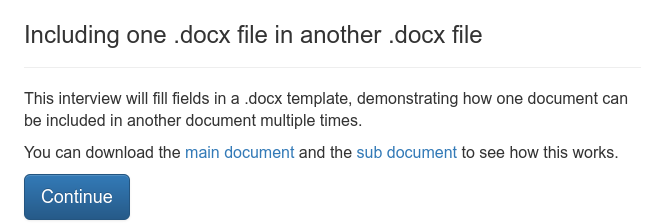
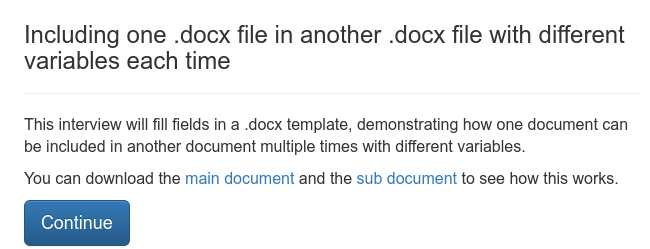
user_logged_in

diff --git a/_docs/functions.md b/_docs/functions.md
@@ -1627,6 +1627,26 @@ code: |
 The `user_logged_in()` function returns `True` if the user is logged
 in, and otherwise returns `False`.
 
+You can use this function to ensure that the user is logged in before
+the user can use your interview:
+
+{% include side-by-side.html demo="user-logged-in" %}
+
+This function uses the [`initial`] modifier in combination with the
+[`url_of()`] function and the [`interview_url()`] function.
+
+The code block should be [`initial`], so that it runs every time a
+user accesses the interview.  If the block is merely [`mandatory`],
+there are some circumstances (albeit rare circumstances) when a user
+who is not logged in could access the interview.
+
+The [`command()`] function redirects the browser to the given `url`.
+You could set the `url` to the result of `url_of('login')`, but then
+when the user logs in, the user will not be redirected back to the
+same interview again.  Thus the `next` parameter is set to a URL for
+the interview.  The URL returned by [`interview_url()`] takes the user
+back to the original interview session.
+
 ## <a name="user_privileges"></a>user_privileges()
 
 The `user_privileges()` function returns the user's privileges as a
@@ -4555,9 +4575,13 @@ The `include_docx_template()` function can be called from within a
 
 {% include demo-side-by-side.html demo="subdocument" %}
 
-The file `main_document.docx` looks like this:
+The file [`main_document.docx`] looks like this:
 
 ![include_docx_template]({{ site.baseurl }}/img/include_docx_template.png)
+
+The file [`sub_document.docx`] looks like this:
+
+![include_docx_template_sub]({{ site.baseurl }}/img/include_docx_template_sub.png)
 
 Note that it is important to use the `p` form of [Jinja2] markup, or
 else the contents of the included document will not be visible.  The
@@ -4570,6 +4594,63 @@ that exists in the templates folder of the current package.  You can
 also refer to templates in other packages using a full package
 filename reference, such as
 `docassemble.demo:data/templates/sub_document.docx`.
+
+The `include_docx_template()` function also accepts optional keyword
+parameters.  These values become variables that you can use in
+[Jinja2] inside the .docx file you are including.  This can be useful
+if you have a "sub-document" that you want to include multiple times,
+but you want to use different variable values each time you include
+the "sub-document."
+
+Here is an example:
+
+{% include demo-side-by-side.html demo="subdoc-params" %}
+
+The file [`main_doc_params.docx`] looks like this:
+
+![include_docx_template_param]({{ site.baseurl }}/img/include_docx_template_param.png)
+
+The file [`sub_doc_params.docx`] looks like this:
+
+![include_docx_template_param_sub]({{ site.baseurl }}/img/include_docx_template_param_sub.png)
+
+In this example, the variables `grantor`, `grantee`, and `stuff` are
+set by the keyword parameters of the `include_docx_template()`
+function.  Note that in your sub-document you can still refer to
+ordinary interview variables in addition to variables created by
+keyword parameters; in this example, the sub-document references the
+variable `planet`, which is set by the interview.
+
+The effect of including keyword parameters is to insert [Jinja2] `set`
+commands at the start of the included document.  For example, the
+first call to `include_docx_template()` might result in the following:
+
+{% highlight text %}
+{% raw %}{%p set grantor = father %}{% endraw %}
+{% raw %}{%p set grantee = mother %}{% endraw %}
+{% raw %}{%p set stuff = 'toadstools' %}{% endraw %}
+{% endhighlight %}
+
+Nobody ever actually sees these `set` statements; they are inserted
+and evaluated behind the scenes.
+
+Note that if the values of any of your keyword arguments are objects
+other than [`DAObject`]s, they will be converted to their [`repr()`]
+representation _before being included_.  This means that there may be
+some objects that you cannot pass through to your sub-documents.
+
+When a `docx template file` document contains a call to
+`include_docx_template()`, the document is assembled in multiple
+"passes."  On the first pass, all of the [Jinja2] is evaluated.  The
+effect of `include_docx_template()` is to insert any `set` statements
+based on keyword parameters, along the verbatim contents of the file.
+Then, on the second pass, any remaining [Jinja2] code is evaluated;
+this would be any [Jinja2] code contained in sub-documents, as well as
+the `set` statements included by `include_docx_template()`.  If any of
+the sub-documents contain calls to `include_docx_template()`, a third
+pass will be done, and so on, until the document is fully assembled.
+(The number of passes is limited to 10 in order to protect against
+accidentally creating an infinite loop of document inclusion.)
 
 ## <a name="raw"></a>raw()
 
@@ -4732,20 +4813,26 @@ modules:
 
 # <a name="google sheets example"></a>Example module: using Google Sheets
 
-This section explains an example of what you might do with a module:
-integrate with [Google Sheets].
+This section explains an example of something you might do with a
+module: integrate with [Google Sheets].
 
 In order for your site to communicate with [Google Sheets], you will
 need to create an account on the [Google Developers Console] and
 create an "app."  Within this app, you will need to create a "service
 account."  (More information is available on the internet about what a
 "service account" is and how you create one.)  When you create the
-service account, you will be provided with "credential"download a [JSON] (not p12) credential file for the
-service account.  Note the e-mail address of the service account.
+service account, you will be provided with "credentials."  Download
+the [JSON] (not p12) credential file for the service account.  Also
+make a note of the e-mail address of the service account.
 
 Go to [Google Sheets], pick a spreadsheet that you want to use, and
 share it with the e-mail address of the service account, just like you
-were sharing it with a real person.
+were sharing it with a real person.  (When you share the spreadsheet
+with this e-mail address, you will get an e-mail notification from
+Google about an undeliverable e-mail.  This is because Google will try
+to e-mail the service account, but the service account does not
+actually have an e-mail account.  To avoid getting this e-mail, click
+the "Advanced" link on the sharing screen and uncheck "Notify people.")
 
 Go to the [Configuration] and create a new configuration directive
 called, e.g., `google docs credentials`.  Set it to the contents of
@@ -4791,10 +4878,6 @@ You might need to change the reference to `'google docs credentials'`
 to something else if you used a different name for the [JSON] crededials
 in your [Configuration].
 
-Go to Package Management and make sure that the `oauth2client`
-and `gspread` packages are installed.  If they are not installed,
-install them from PyPI.
-
 Go to the [Playground] and create an interview that references the
 `google_sheets` module and the `read_sheet` function.
 
@@ -4811,14 +4894,65 @@ subquestion: |
   % endfor
 {% endhighlight %}
 
-In this example, a Google Sheet called "Country Data" has been shared
+In this example, a [Google Sheet] called "Country Data" has been shared
 with the "service account" that owns the credentials in `google docs
 credentials`.  The first worksheet in the spreadsheet (index 0)
 contains a table with headings for `name` and `longitude`, among other
 columns.  The `read_sheet` function returns a list of dictionaries
 representing the contents of the table.
 
-For more information, see the documentation for the [gspread] module.
+For more information on using [Google Sheets] from [Python], see the
+documentation for the [gspread] module.
+
+# <a name="google sheets example two"></a>Example module: storing data in a Google Sheet
+
+The following example interview extends the system developed in the
+previous section by adding functionality for writing data to the
+worksheet.  This interview asks the interviewee some questions
+and then stores the results in a [Google Sheet], much like [Google
+Forms] would.
+
+{% include demo-side-by-side.html demo="google-sheet" %}
+
+This interview uses a [Google Sheet] called [Fruits and veggies] (you
+can view it at that link), which has been shared with the "service
+account" referenced in the `google docs credentials` directive of the
+[Configuration] on the demo.docassemble.org server.
+
+You can [try out this interview] and then look at the [Fruits and
+veggies] spreadsheet to see your answers along with the answers of
+other people who have tested the interview.
+
+There is a single [`mandatory`] block in this interview: a [`code`]
+block that first requires a definition of
+`data_stored_in_google_sheet`, and then seeks a definition of
+`final_screen_shown`.
+
+The variable `data_stored_in_google_sheet` is defined by a [`code`]
+block that calls `append_to_sheet()`, which is a function defined in
+the [`google_sheets` module].  This module is in the same [Python]
+package as the interview (`docassemble.demo`).  (The [`google_sheets`
+module] is based on the [Python] module described in the previous
+section.)
+
+The `append_to_sheet()` function is very similar to the `read_sheet()`
+function described in the previous section.
+
+{% highlight python %}
+def append_to_sheet(sheet_name, vals, worksheet_index=0):
+    creds = ServiceAccountCredentials.from_json_keyfile_dict(credential_info, scope)
+    client = gspread.authorize(creds)
+    sheet = client.open(sheet_name).get_worksheet(worksheet_index)
+    sheet.append_row(vals)
+{% endhighlight %}
+
+There is a handy method in [gspread] called `append_row()`, which adds
+a row to the end of a spreadsheet.  If you use a method like this
+yourself, please note in [Google Sheets], spreadsheets by default have
+several hundred rows, so if you append data to them, you might not see
+the data that you have appended unless you scroll all the way down.
+It is recommended that you delete all of these extraneous rows before
+you use [gspread]'s `append_row()` method to write to a spreadsheet.
 
 # <a name="javascript"></a>Javascript functions
 
@@ -5115,6 +5249,7 @@ $(document).on('daPageLoad', function(){
 [`response()`]: #response
 [`command()`]: #command
 [`message()`]: #message
+[`url_of()`]: #url_of
 [Python Imaging Library]: http://www.pythonware.com/products/pil/
 [URL arguments]: {{ site.baseurl }}/docs/special.html#url_args
 [Celery]: http://www.celeryproject.org/
@@ -5315,3 +5450,13 @@ $(document).on('daPageLoad', function(){
 [gspread]: https://gspread.readthedocs.io/en/latest/
 [Google Developers Console]: https://console.developers.google.com/
 [Google Sheets]: https://sheets.google.com
+[Google Forms]: https://docs.google.com/forms
+[Google Sheet]: https://sheets.google.com
+[Fruits and veggies]: https://docs.google.com/spreadsheets/d/1Lrm75Rq-C4wrftZnmwLJaKh_VPP3xe1iYfDP95e-UMs/edit?usp=sharing
+[`google_sheets` module]: {{ site.github.repository_url }}/blob/master/docassemble_demo/docassemble/demo/google_sheets.py
+[try out this interview]: https://demo.docassemble.org/?i=docassemble.demo:data/questions/google-sheet.yml
+[`main_document.docx`]: https://github.com/jhpyle/docassemble/blob/master/docassemble_demo/docassemble/demo/data/templates/main_document.docx
+[`sub_document.docx`]: https://github.com/jhpyle/docassemble/blob/master/docassemble_demo/docassemble/demo/data/templates/sub_document.docx
+[`main_doc_params.docx`]: https://github.com/jhpyle/docassemble/blob/master/docassemble_demo/docassemble/demo/data/templates/main_doc_params.docx
+[`sub_doc_params.docx`]: https://github.com/jhpyle/docassemble/blob/master/docassemble_demo/docassemble/demo/data/templates/sub_doc_params.docx
+[`repr()`]: https://docs.python.org/2/library/functions.html#repr

diff --git a/_docs/changelog.md b/_docs/changelog.md
@@ -4,6 +4,21 @@ title: Change Log
 short_title: Change Log
 ---
 
+## [0.2.37](https://github.com/jhpyle/docassemble/releases/tag/v0.2.37) - 2018-03-10
+
+### Added
+- Example for `user_logged_in()`.
+- Example for appending a row to a Google Sheet.
+- The `scale` option for the `range` datatype.
+
+### Changed
+- The `include_docx_template()` function accepts keyword parameters.
+  This has the effect of including Jinja2 `set` commands at the
+  beginning of the included sub-document.
+
+### Fixed
+- Error when registering.
+
 ## [0.2.36](https://github.com/jhpyle/docassemble/releases/tag/v0.2.36) - 2018-03-08
 
 ### Added
